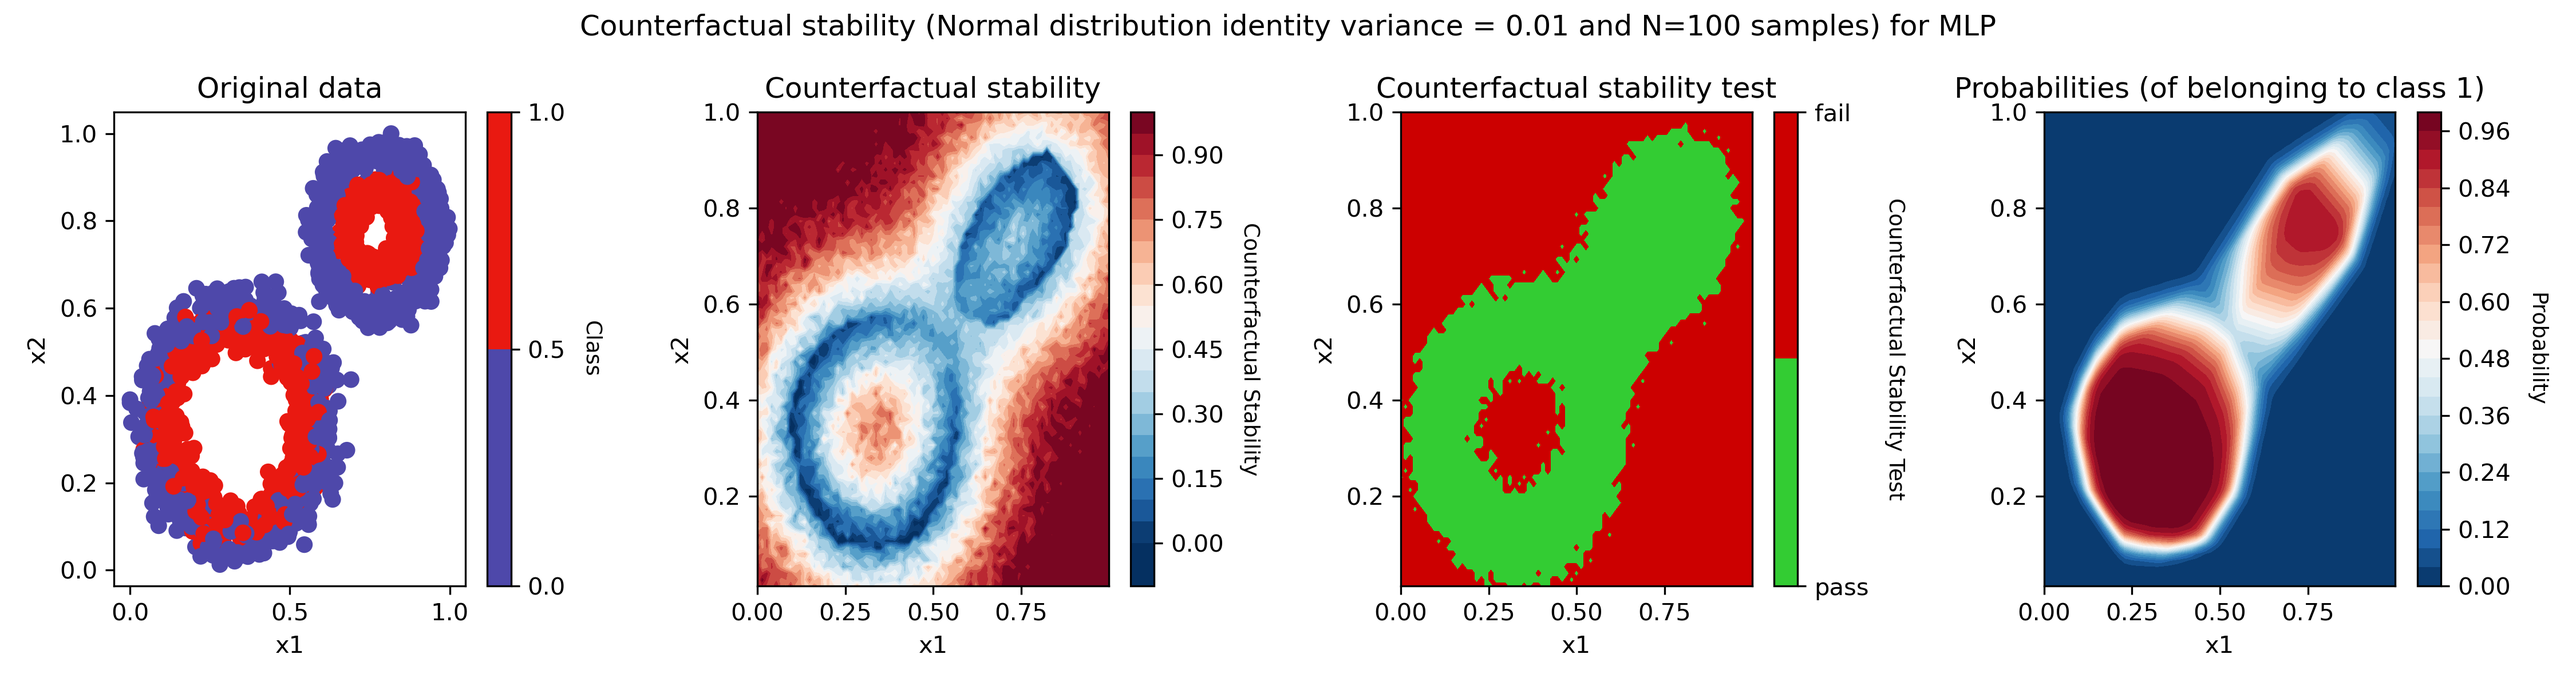
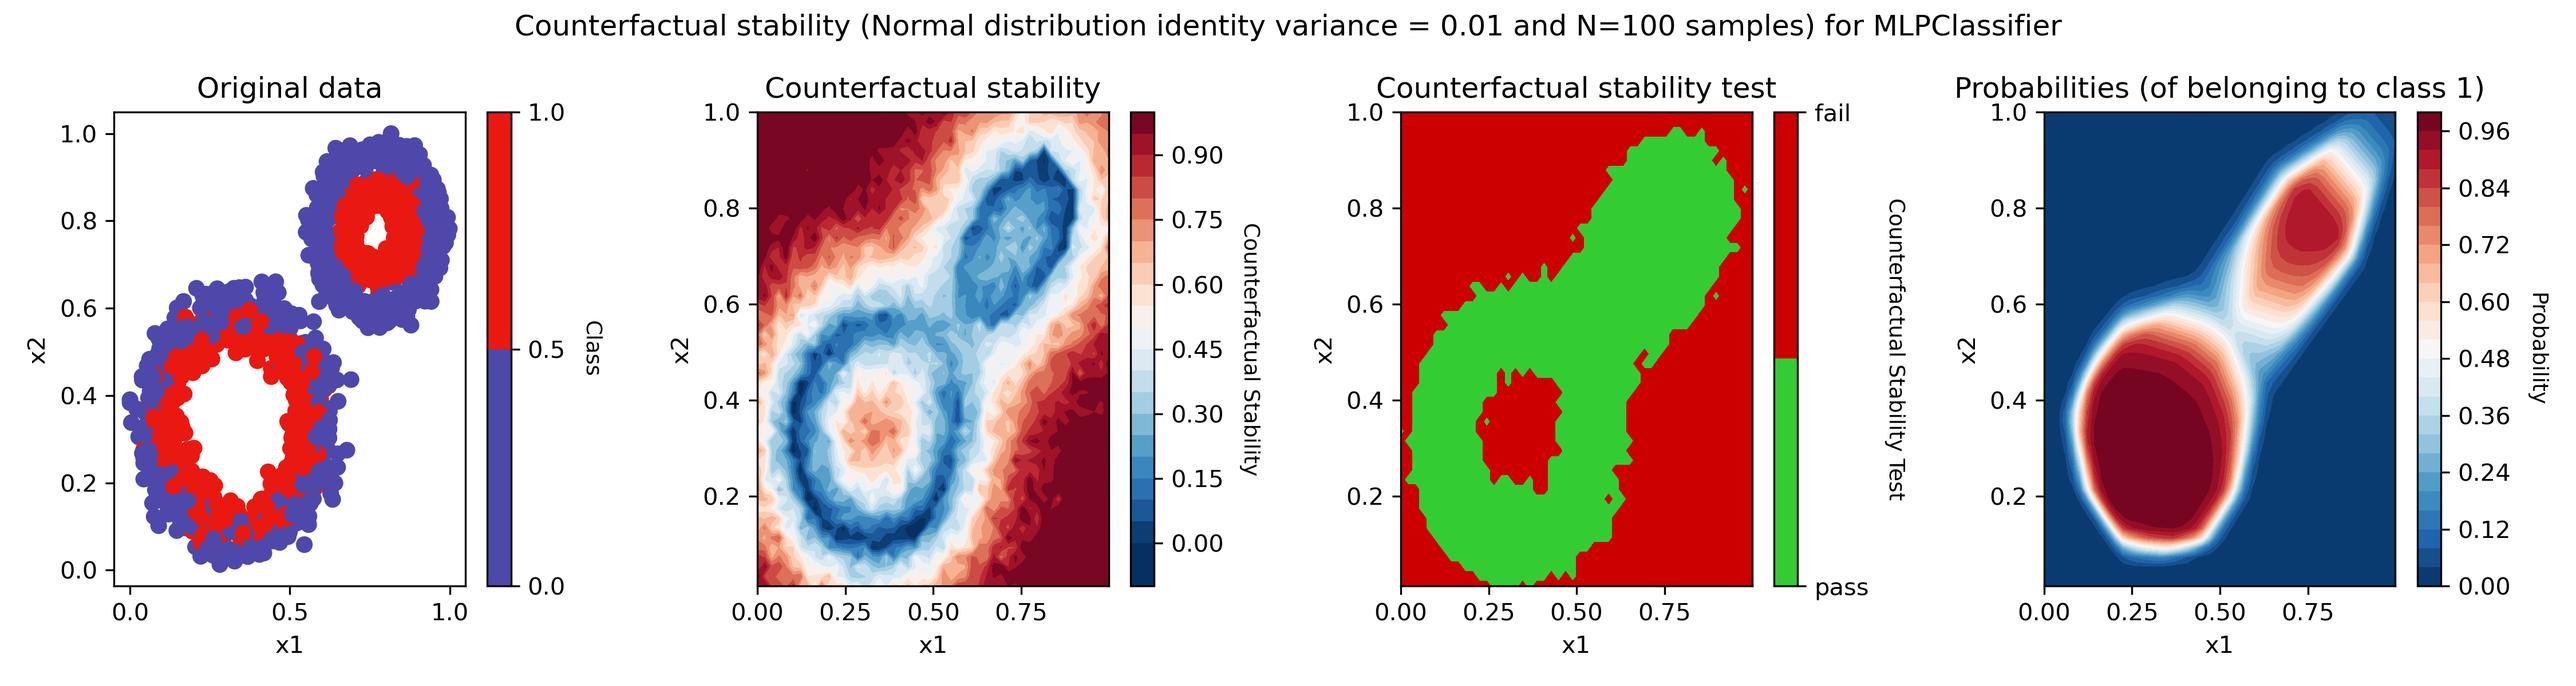
Add calibrated models

diff --git a/utils/plot_helpers.py b/utils/plot_helpers.py
@@ -123,14 +123,7 @@ def comprehensive_counterfactual_stability_plot(
         - show: whether to show the plot or not (bool)
     '''
     
-    model_name = None
-    match model.__class__.__name__:
-        case 'MLPClassifier':
-            model_name = 'MLP'
-        case 'RandomForestClassifier':
-            model_name = 'RF'
-        case _:
-            raise ValueError('model must be either a MLPClassifier or a RandomForestClassifier')
+    model_name = model.__class__.__name__
     
     # Prepare the grid
     xx = np.linspace(np.min(X[:,0]), np.max(X[:,0]), grid_density_for_contourf)

diff --git a/utils/robx_experiments.py b/utils/robx_experiments.py
@@ -39,13 +39,13 @@ for i, (m, name) in enumerate(clf_list):
     print(f'Analysing counterfactual stability for {name}')
     
     comprehensive_counterfactual_stability_plot(
-        model=model,
+        model=m,
         X=X,
         y=y,
         variances=[0.01, 0.05, 0.1, 0.25],
         N=100,
         tau=0.5,
-        grid_density_for_contourf=75,
+        grid_density_for_contourf=50,
         save_path=f'images/calibration/{name}/{name}_cf_stability.png',
         show=False,
     )

diff --git a/utils/scikit_models.py b/utils/scikit_models.py
@@ -82,6 +82,10 @@ def scikit_predict_proba(model: object, x: np.ndarray) -> np.ndarray:
     if isinstance(model, RandomForestClassifier):
         return model.predict_proba(_x)[:, 1]
     
+    # if model is from scikit learn still ok 
+    if hasattr(model, 'predict_proba'):
+        return model.predict_proba(_x)[:, 1]
+    
     raise ValueError('model must be either a MLPClassifier or a RandomForestClassifier')
 
 def scikit_predict_proba_fn(model: object) -> object:
